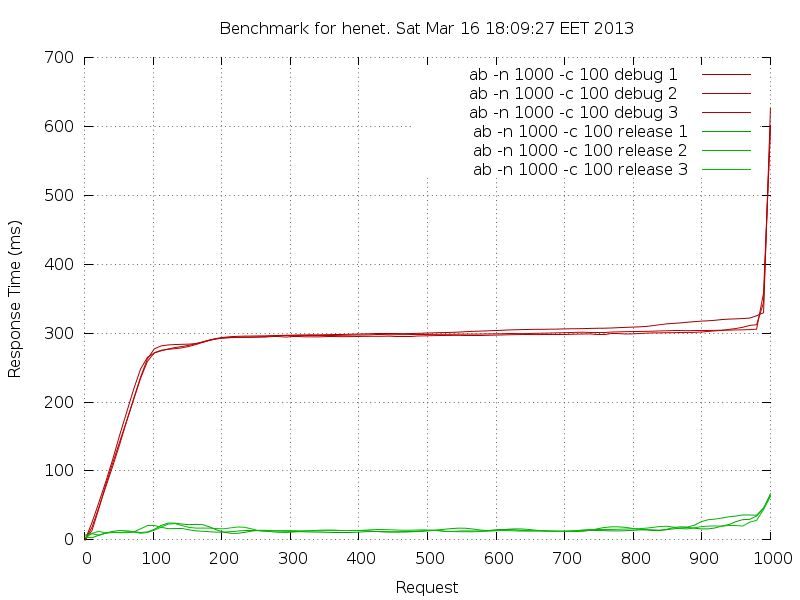
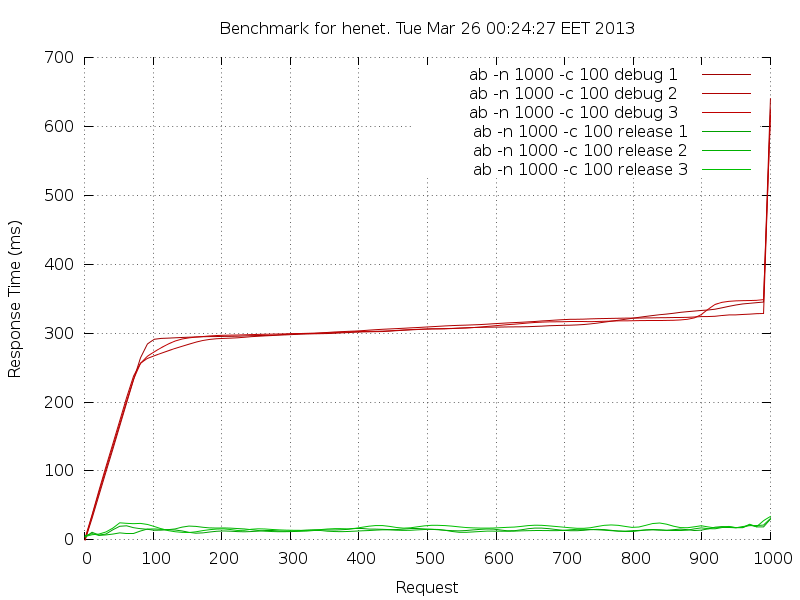
read/write fixes; more error handling; style;

Changed region(s): [[0.1562, 0.48, 0.9688, 0.69], [0.0938, 0.69, 0.9688, 0.9], [0.5, 0.03, 0.8125, 0.06]]

diff --git a/henet.cpp b/henet.cpp
@@ -49,47 +49,110 @@ socket::~socket()
 
 std::vector<unsigned char> socket::read() const
 {
-    std::vector<unsigned char> buffer(8192);
-    ssize_t rd = ::read(socket_, &buffer[0], buffer.size());
+    const ssize_t buff_size = 8192;
+    std::vector<unsigned char> buffer(buff_size);
+    ssize_t total_read = 0L;
+    ssize_t read = 0L;
 
-    if (rd < 0)
+    do
     {
-        throw std::runtime_error(::strerror(errno));
+        read = ::read(socket_, &buffer[total_read], buff_size);
+
+        if(read > 0)
+        {
+            total_read += read;
+
+            if (read >= buff_size)
+            {
+                buffer.resize(buff_size);
+            }
+            else
+            {
+                break;
+            }
+        }
+        else
+        {
+            break;
+        }
+    }
+    while (read > 0);
+
+    if (read < 0)
+    {
+        throw std::runtime_error(std::string("read() exception: ") + ::strerror(errno));
     }
 
-    buffer.resize(rd);
+    buffer.resize(total_read);
 
     return buffer;
 }
 
-size_t socket::write(const std::vector<unsigned char>& buffer) const
+size_t socket::write(const unsigned char* buffer, size_t size) const
 {
     size_t rc = 0;
 
-    if (buffer.size() > 0)
+    if (buffer && size > 0)
     {
-        ssize_t wr = ::write(socket_, &buffer[0], buffer.size());
+        ssize_t write_total = size;
+        ssize_t write_remaining = 0L;
+        ssize_t written_total = 0L;
+        ssize_t written = 0L;
 
-        if (wr < 0)
+        do
+        {
+            written = ::write(socket_, &buffer[write_remaining], write_total);
+
+            if(written > 0)
+            {
+                written_total += written;
+
+                if(written < write_total)
+                {
+                    write_total -= written;
+                    write_remaining += written;
+                }
+                else
+                {
+                    break;
+                }
+            }
+            else
+            {
+                break;
+            }
+        }
+        while (written > 0);
+
+        if (written < 0)
         {
             throw std::runtime_error(std::string("write() exception: ") + ::strerror(errno));
         }
 
-        rc = static_cast<size_t>(wr);
+        rc = static_cast<size_t>(written_total);
     }
 
     return rc;
 }
 
+size_t socket::write(const std::vector<unsigned char>& buffer) const
+{
+    return write(&buffer[0], buffer.size());
+}
+
+size_t socket::write(const std::string& buffer) const
+{
+    return write(reinterpret_cast<const unsigned char*>(buffer.c_str()), buffer.length());
+}
+
 size_t socket::write_file(std::string filename) const
 {
     size_t rc = 0;
-    int fd = -1;
 
     try
     {
         // RAII technique to acquire/release file handle
-        scoped_resource<int> fd([&filename](){ return ::open(filename.c_str(), O_RDONLY); }, ::close);
+        scoped_resource<int, const char*, int> fd(::open, filename.c_str(), O_RDONLY, ::close);
 
         if (fd == -1)
         {
@@ -105,10 +168,10 @@ size_t socket::write_file(std::string filename) const
         }
 
         off_t foffset = 0;
-        size_t size = sb.st_size;
-        ssize_t wr = ::sendfile(socket_, fd, &foffset, size);
+        size_t file_size = sb.st_size;
+        ssize_t written = ::sendfile(socket_, fd, &foffset, file_size);
 
-        if (wr < 0)
+        if (written < 0)
         {
             if (!util::is_ignored_error(errno))
             {
@@ -116,18 +179,50 @@ size_t socket::write_file(std::string filename) const
             }
         }
 
-        rc = static_cast<size_t>(wr);
+        rc = static_cast<size_t>(written);
     }
     catch(std::exception& e)
     {
-        ::close(fd);
-
         throw;
     }
 
-    ::close(fd);
-
     return rc;
+}
+
+void socket::reuse()
+{
+    if (socket_ >= 0)
+    {
+        int reuse = 1;
+        int rc = ::setsockopt(socket_, SOL_SOCKET, SO_REUSEADDR, &reuse, sizeof(int));
+        if ( rc < 0 )
+        {
+            throw std::runtime_error(
+                    std::string("socket::reuse()exception: Setting socket options SO_REUSEADDR failed: ") +
+                    + ::strerror(errno));
+        }
+    }
+}
+
+void socket::nonblocking()
+{
+    if (socket_ >= 0)
+    {
+        int flags = ::fcntl(socket_, F_GETFL, 0);
+
+        if (flags == -1)
+        {
+            throw std::runtime_error(std::string("fcntl() exception: ") + ::strerror(errno));
+        }
+
+        flags |= O_NONBLOCK;
+        int rc = ::fcntl(socket_, F_SETFL, flags);
+
+        if (rc == -1)
+        {
+            throw std::runtime_error(std::string("fcntl() exception: ") + ::strerror(errno));
+        }
+    }
 }
 
 void socket::close()
@@ -200,12 +295,27 @@ address::address(std::string addr, unsigned short port)
     : sockaddr_({0})
 {
     sockaddr_in saddr;
-    ::inet_pton(AF_INET, addr.c_str(), &saddr.sin_addr);
 
-    sockaddr_in* paddr = ((sockaddr_in*)&sockaddr_);
-    paddr->sin_family = saddr.sin_family;
-    paddr->sin_addr = saddr.sin_addr;
-    paddr->sin_port = htons(port);
+    int rc = ::inet_pton(AF_INET, addr.c_str(), &saddr.sin_addr);
+
+    if (rc > 0)
+    {
+        sockaddr_in* paddr = ((sockaddr_in*)&sockaddr_);
+        paddr->sin_family = saddr.sin_family;
+        paddr->sin_addr = saddr.sin_addr;
+        paddr->sin_port = htons(port);
+    }
+    else
+    {
+        if (rc == 0)
+        {
+            throw std::runtime_error(std::string("inet_pton() exception: ") + "Network address is not valid.");
+        }
+        else
+        {
+            throw std::runtime_error(std::string("inet_pton() exception: ") + ::strerror(errno));
+        }
+    }
 }
 
 address::address(const address& other)
@@ -373,12 +483,7 @@ const server& server::bind(std::string conn)
     bind_addr_ = std::move(address(conn_ctx_.family, conn_ctx_.addr, conn_ctx_.port));
     bind_sock_ = std::move(socket(conn_ctx_.family, conn_ctx_.type, conn_ctx_.protocol));
 
-    int reuse = 1;
-    int rc1 = ::setsockopt(bind_sock_, SOL_SOCKET, SO_REUSEADDR, &reuse, sizeof(int));
-    if ( rc1 < 0 )
-    {
-        throw std::runtime_error("Setting socket options SO_REUSEADDR failed.");
-    }
+    bind_sock_.reuse();
 
     #ifdef BSD
     int nosigpipe = 1;
@@ -451,8 +556,6 @@ const server& server::dispatch_impl(std::function<void(socket, address, std::mut
                  std::shared_ptr<std::pair<socket, address>> pac, std::mutex& m)
             {
                 fn(std::move(pac->first), std::move(pac->second), std::ref(m));
-
-                std::this_thread::sleep_for(std::chrono::milliseconds(1));
             }, std::ref(fn), pac, std::ref(iomutex_));
 
             if (worker.joinable())

diff --git a/hetest.cpp b/hetest.cpp
@@ -35,7 +35,7 @@ int main(int argc, char** argv)
         std::cout << "Hello again, " << "[" << *a << "]" << std::endl;
 
         {
-            ha::scoped_resource<int, char*, int> fd(::open, argv[0], O_RDONLY, ::close);
+            ha::scoped_resource<int, const char*, int> fd(::open, argv[0], O_RDONLY, ::close);
             assert(fd != -1);
             int raw_fd1 = fd.get();
             assert(raw_fd1 != -1);
@@ -80,18 +80,16 @@ int main(int argc, char** argv)
                     // Send reply
                     const char crlf[] = "\x0D\x0A";
                     std::stringstream stream;
-                    stream << "HTTP/1.1 200 OK" << crlf
-                           << "Server: henet" << crlf
-                           << "Content-type: application/octet-stream" << crlf
-                           << "Content-Transfer-Encoding: 8bit" << crlf
-                           //<< "Content-Length: " << 0 << crlf
-                           << "Connection: close" << crlf
+                    stream << "HTTP/1.1 200 OK"                         << crlf
+                           << "Server: henet"                           << crlf
+                           << "Content-type: application/octet-stream"  << crlf
+                           << "Content-Transfer-Encoding: 8bit"         << crlf
+                           //<< "Content-Length: " << 0                 << crlf
+                           << "Connection: close"                       << crlf
                            << crlf;
-                    const std::string str_reply = stream.str();
-                    const std::vector<unsigned char> raw_reply(str_reply.begin(), str_reply.end());
 
                     std::unique_lock<std::mutex> lock(m);
-                    s.write(raw_reply);
+                    s.write(stream.str());
                     s.write_file(argv[0]);
 
                     //std::cout << "Reply sent: " << std::endl << str_reply << std::endl;

diff --git a/henet.h b/henet.h
@@ -59,8 +59,13 @@ class socket
         virtual ~socket();
 
         std::vector<unsigned char> read() const;
+        size_t write(const unsigned char* buffer, size_t size) const;
         size_t write(const std::vector<unsigned char>& buffer) const;
+        size_t write(const std::string& buffer) const;
         size_t write_file(std::string filename) const;
+
+        void reuse();
+        void nonblocking();
 
         void close();
 
